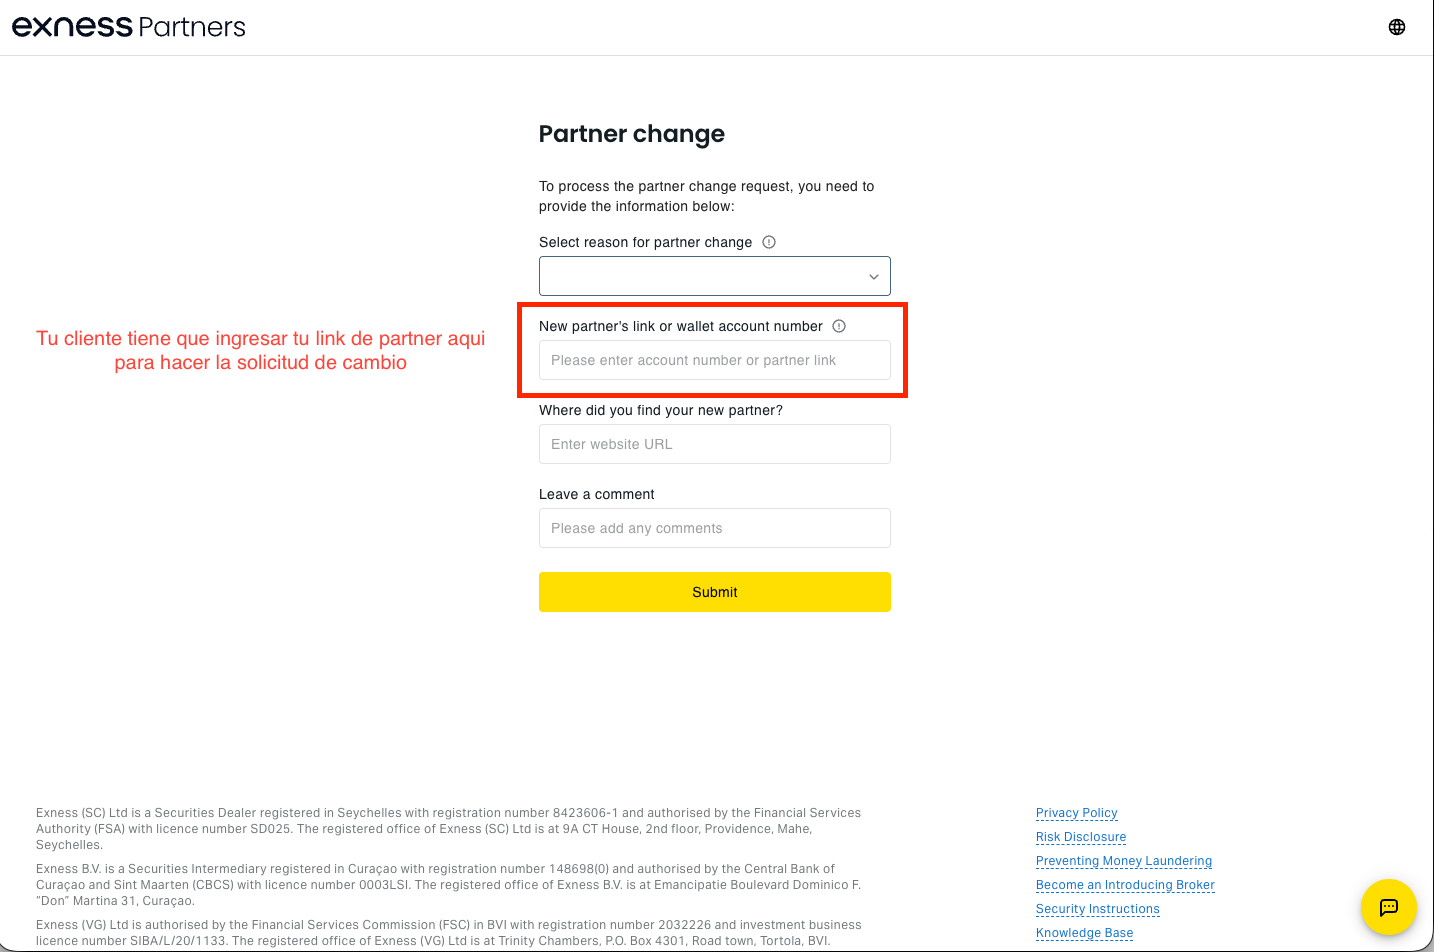
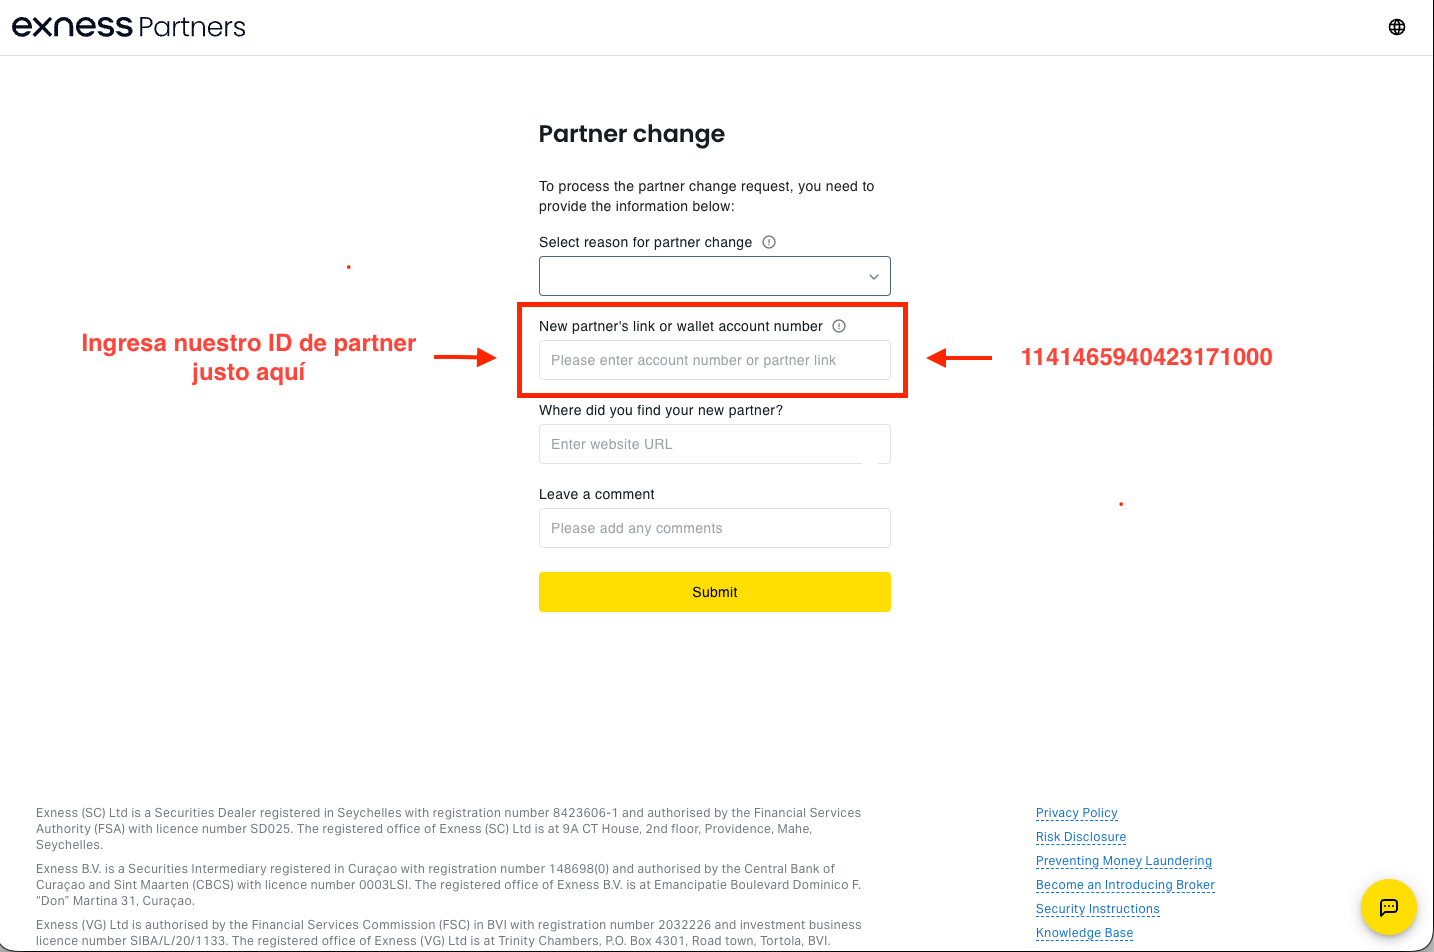
Update change partner guide

Changed region(s): [[0.0307, 0.3351, 0.3375, 0.396], [0.7057, 0.3655, 0.8898, 0.396], [0.6444, 0.3655, 0.675, 0.396]]

diff --git a/src/pages/ChangePartnerGuide.tsx b/src/pages/ChangePartnerGuide.tsx
@@ -170,6 +170,28 @@ export default function ChangePartnerGuidePage() {
                       {step.description}
                     </p>
                     
+                    {step.number === 4 && (
+                      <div className="mb-6 p-6 bg-gradient-to-br from-primary/10 via-primary/5 to-background rounded-xl border-2 border-primary/30 shadow-inner">
+                        <div className="flex items-center gap-3 mb-3">
+                          <Copy className="h-5 w-5 text-primary" />
+                          <p className="font-semibold text-foreground">Nuestro Partner ID:</p>
+                        </div>
+                        <div className="flex flex-col sm:flex-row items-stretch sm:items-center gap-3 p-4 bg-card rounded-lg border-2 border-primary/20">
+                          <code className="text-primary font-mono text-xl md:text-2xl font-bold flex-1 text-center sm:text-left">
+                            {partnerId}
+                          </code>
+                          <Button
+                            onClick={copyPartnerId}
+                            size="default"
+                            className="bg-primary hover:bg-primary/90 shadow-md hover:shadow-lg transition-all duration-300"
+                          >
+                            <Copy className="h-4 w-4 mr-2" />
+                            Copiar
+                          </Button>
+                        </div>
+                      </div>
+                    )}
+                    
                     {step.image && (
                       <div className="rounded-xl border-2 border-border overflow-hidden shadow-lg hover:shadow-xl transition-shadow duration-300 bg-muted/20">
                         <img 
